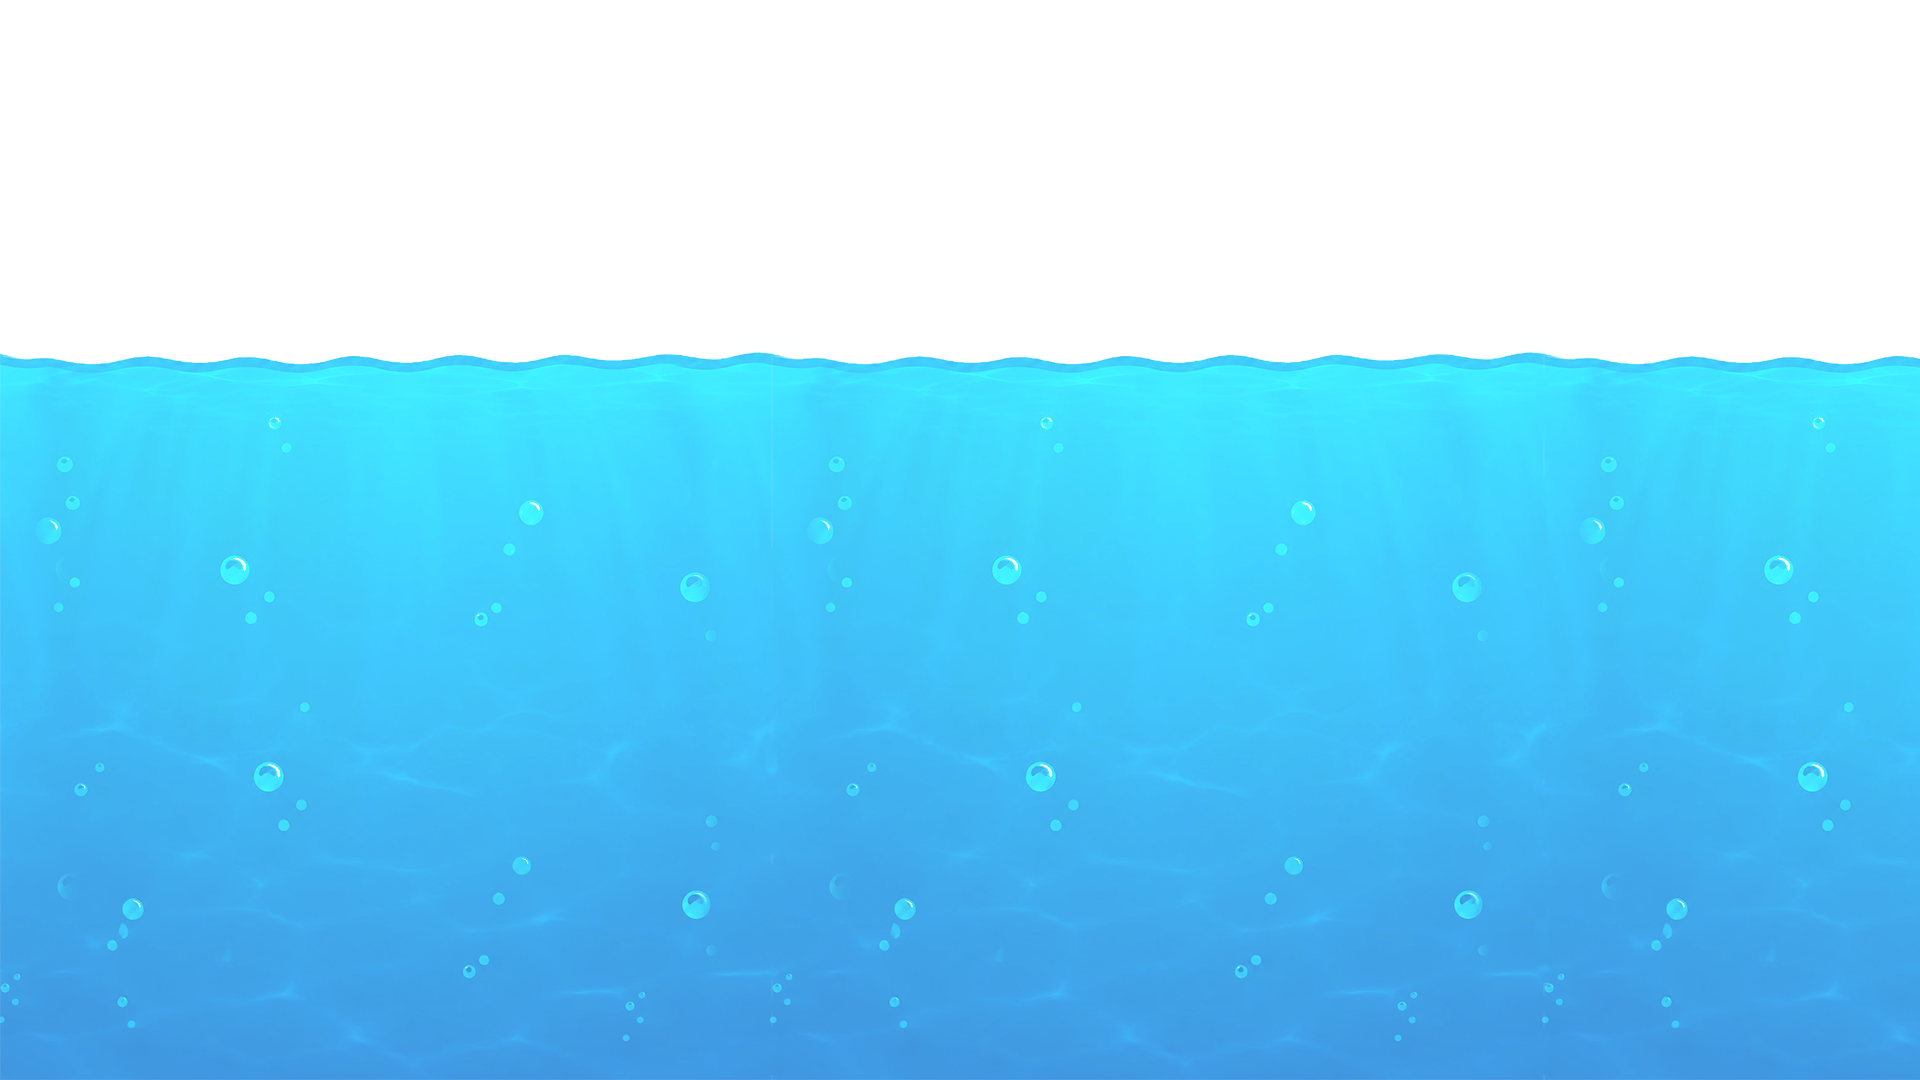
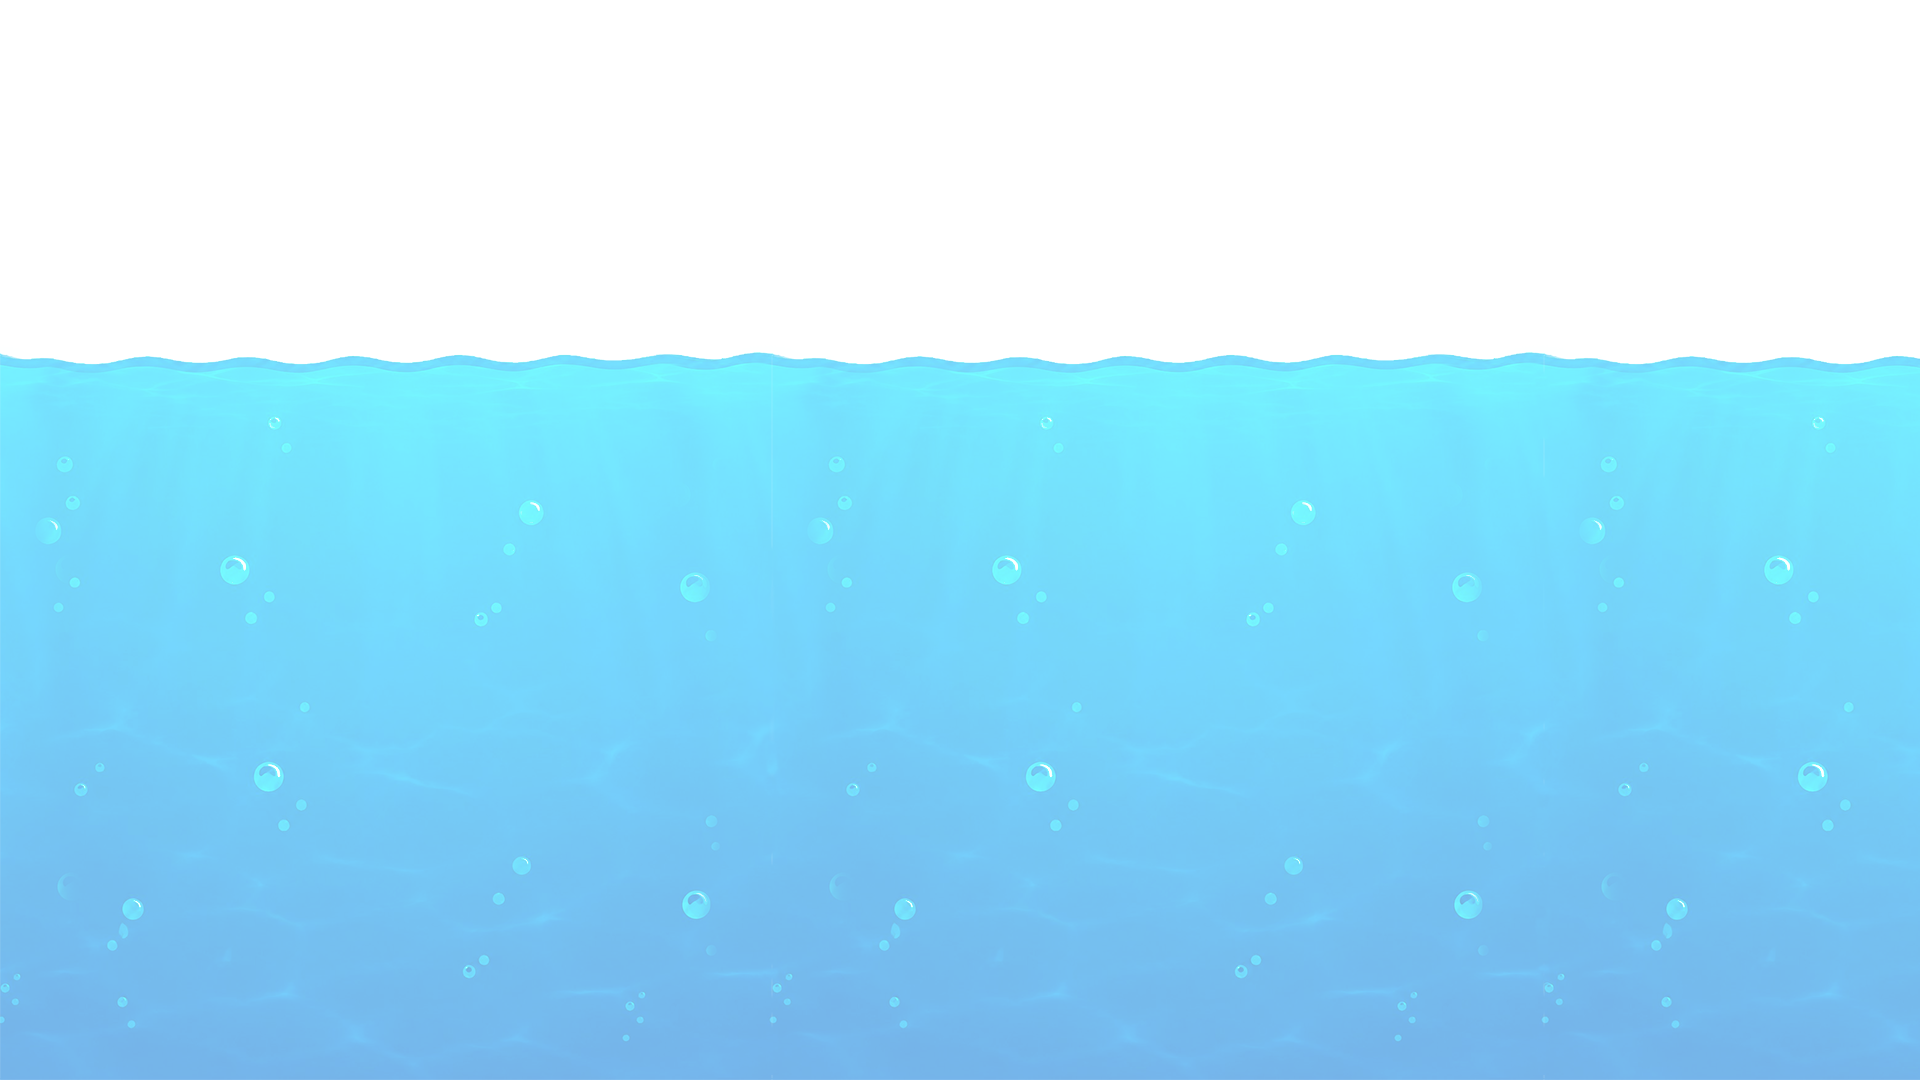
bigger fish and more transparent water

diff --git a/Game/main.py b/Game/main.py
@@ -45,7 +45,7 @@ def create_scene(config: GameConfig, api: GameAPI, *, arm: str, keyboard: bool):
     fish = GameObject()
     fish.position = (0.0, 1.0)
     fish.tag = "fish"
-    Sprite(fish, 0.05, 0.05, "fish.png")
+    Sprite(fish, 0.08, 0.08, "fish.png")
     controller = FishController(fish, config.fish, min_to_reel=config.signal.min_to_reel)
 
     water = GameObject()
